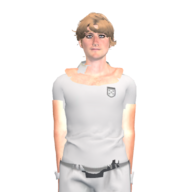
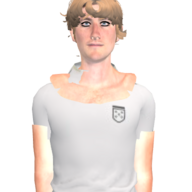
Todos los personajes con el mismo cuerpo, altura y complexión
- Ty, Big Vegas y Granny llevan su cabeza sobre el cuerpo de futbolista de Dani (piel teñida a su tono)
- Altura igualada por el cuello (el pelo o una cabeza grande ya no encogen el cuerpo) y torso al mismo ancho
- Retratos regenerados y centrados en la cara

Claude-Session: https://claude.ai/code/session_017Zx2H8d6dd2Bde9S1DSPYC

diff --git a/arenamix/chars.js b/arenamix/chars.js
@@ -13,7 +13,7 @@
     { id: 'nico', name: 'Nico', file: 'assets/chars/nico.glb' },
     { id: 'dani', name: 'Dani', file: 'assets/chars/dani.glb' }
   ];
-  var KEY = 'arenamix.char.v1', HEIGHT = 1.86;
+  var KEY = 'arenamix.char.v1', HEIGHT = 1.86, NECK_H = 1.55;
   var tpl = {}, loading = null, waiters = [], ANIM = null;
 
   function pref() {
@@ -57,7 +57,8 @@
           root.updateMatrixWorld(true);
           var box = new T.Box3().setFromObject(root);
           prepKit(root, box);
-          tpl[c.id] = { root: root, box: box, head: measureHead(root) };
+          var nb = null; root.traverse(function (b) { if (b.isBone && b.name === 'mixamorigNeck') nb = b; });
+          tpl[c.id] = { root: root, box: box, head: measureHead(root), neck: nb ? new T.Vector3().setFromMatrixPosition(nb.matrixWorld).y - box.min.y : (box.max.y - box.min.y) * 0.83 };
           if (onStep) onStep();
           res(true);
         }, null, function () { if (onStep) onStep(); res(false); });
@@ -152,6 +153,111 @@
       prepKit(root, t.box);
     });
     ['dani', 'leo', 'nico'].forEach(addArms);
+    Object.keys(HEADS).forEach(headOnBody);
+    // the same build for everyone: torsos as wide as Dani's (measured, so close models barely change)
+    var w0 = torsoW('dani');
+    LIST.forEach(function (c) { var t = tpl[c.id], w = torsoW(c.id); if (t && w0 && w) t.wx = Math.max(0.85, Math.min(1.15, w0 / w)); });
+  }
+  // width of the torso (hips to chest) at rest, in units of the neck height
+  function torsoW(id) {
+    var t = tpl[id]; if (!t) return 0;
+    var box = new T.Box3(), v = new T.Vector3();
+    t.root.updateMatrixWorld(true);
+    t.root.traverse(function (m) {
+      if (!m.isSkinnedMesh || m.userData.bareArms) return;
+      var names = m.skeleton.bones.map(function (b) { return b.name; }), pos = m.geometry.attributes.position, si = m.geometry.attributes.skinIndex, sw = m.geometry.attributes.skinWeight;
+      if (!si || !sw) return;
+      for (var i = 0; i < pos.count; i += 2) {
+        var best = 0, bw = -1;
+        for (var k = 0; k < 4; k++) { var w = sw.array[i * 4 + k]; if (w > bw) { bw = w; best = si.array[i * 4 + k]; } }
+        if (!/(Hips|Spine|Spine1|Spine2)$/.test(names[best] || '')) continue;
+        v.fromBufferAttribute(pos, i); m.boneTransform(i, v); v.applyMatrix4(m.matrixWorld); box.expandByPoint(v);
+      }
+    });
+    return box.isEmpty() ? 0 : (box.max.x - box.min.x) / (t.neck || 1);
+  }
+  /* ---------- cartoon characters on the footballer body ----------
+     Ty, Big Vegas and Granny keep their head (face, hair, glasses...) on Dani's body and kit, so everyone
+     has the same height and build. The head is cut from the model (what the head bone moves), scaled to a
+     slightly big footballer head and fixed on Dani's head bone; Dani's skin is tinted to theirs. */
+  var HEADS = { ty: { skin: '#EDB898', size: 1.38, lift: 0.07 }, vegas: { skin: '#E6B08C', size: 1.22, lift: 0.07 }, granny: { skin: '#B9CFC2', size: 1.25, lift: 0.07 } };
+  var DANI_SKIN = new T.Color('#C99A7E');
+  function headOnBody(id) {
+    var src = tpl[id], base = tpl[KIT_SRC], cfg = HEADS[id];
+    if (!src || !base || !cfg) return;
+    var root = T.SkeletonUtils.clone(base.root);
+    root.updateMatrixWorld(true); src.root.updateMatrixWorld(true);
+    var by = {}; root.traverse(function (b) { if (b.isBone && !by[b.name]) by[b.name] = b; });
+    var sby = {}; src.root.traverse(function (b) { if (b.isBone && !sby[b.name]) sby[b.name] = b; });
+    var hB = by.mixamorigHead, sH = sby.mixamorigHead;
+    if (!hB || !sH) return;
+    var under = {}; sH.traverse(function (b) { if (b.isBone) under[b.name] = 1; });
+    var dHead = {}; hB.traverse(function (b) { if (b.isBone) dHead[b.name] = 1; });
+    var tint = new T.Color(cfg.skin), sk = { r: tint.r / DANI_SKIN.r, g: tint.g / DANI_SKIN.g, b: tint.b / DANI_SKIN.b };
+    var drop = [];
+    root.traverse(function (m) {
+      if (!m.isSkinnedMesh) return;
+      if (/Hair|Eyelashes/.test(m.name)) { drop.push(m); return; }
+      if (m.userData.bareArms) { m.material = m.material.clone(); m.material.color = new T.Color(cfg.skin).convertSRGBToLinear(); return; }
+      if (!/Body$/.test(m.name)) return;
+      // Dani's skin without his head, tinted
+      var geo = m.geometry.clone(), names = m.skeleton.bones.map(function (b) { return b.name; }), si = geo.attributes.skinIndex, sw = geo.attributes.skinWeight, gi = geo.index, keep = [];
+      var isHead = function (x) { var best = 0, bw = -1; for (var q = 0; q < 4; q++) { var w = sw.array[x * 4 + q]; if (w > bw) { bw = w; best = si.array[x * 4 + q]; } } return !!dHead[names[best]]; };
+      for (var f = 0; f < gi.count; f += 3) { var a = gi.getX(f), b = gi.getX(f + 1), c = gi.getX(f + 2); if (!(isHead(a) && isHead(b) && isHead(c))) keep.push(a, b, c); }
+      geo.setIndex(keep); m.geometry = geo;
+      m.material = m.material.clone(); m.material.color = new T.Color(sk.r, sk.g, sk.b);
+    });
+    drop.forEach(function (m) { m.parent.remove(m); });
+    // the cartoon head, in the cartoon model's world space, then moved onto Dani's head bone
+    var pS = new T.Vector3().setFromMatrixPosition(sH.matrixWorld), pD = new T.Vector3().setFromMatrixPosition(hB.matrixWorld);
+    var sw0 = src.head.skull.max.x - src.head.skull.min.x, dw0 = base.head.skull.max.x - base.head.skull.min.x;
+    var k = cfg.size * dw0 / (sw0 || 1);
+    // the chin where Dani's chin is, the face centred on his
+    var sc0 = src.head.skull.getCenter(new T.Vector3()), dc0 = base.head.skull.getCenter(new T.Vector3());
+    var shift = new T.Vector3(dc0.x - (pD.x + (sc0.x - pS.x) * k), base.head.skull.min.y + (cfg.lift || 0) * (base.head.skull.max.y - base.head.skull.min.y) - (pD.y + (src.head.skull.min.y - pS.y) * k), dc0.z - (pD.z + (sc0.z - pS.z) * k));
+    var nmW = new T.Matrix3();
+    var holder = new T.Group(); holder.matrixAutoUpdate = false;
+    holder.matrix.copy(hB.matrixWorld).invert(); holder.name = 'CartoonHead';
+    hB.add(holder);
+    var skull = new T.Box3(), all = new T.Box3(), v = new T.Vector3();
+    src.root.traverse(function (m) {
+      if (!m.isSkinnedMesh || /Hands/.test(m.name)) return;
+      var geo = m.geometry, pos = geo.attributes.position, si = geo.attributes.skinIndex, sw = geo.attributes.skinWeight;
+      if (!si || !sw) return;
+      var names = m.skeleton.bones.map(function (b) { return b.name; }), n = pos.count, P = new Float32Array(n * 3), inHead = new Uint8Array(n);
+      var nrm = geo.attributes.normal, N = nrm ? new Float32Array(n * 3) : null, nv = new T.Vector3();
+      nmW.getNormalMatrix(m.matrixWorld);
+      for (var i = 0; i < n; i++) {
+        var best = 0, bw = -1;
+        for (var q = 0; q < 4; q++) { var w = sw.array[i * 4 + q]; if (w > bw) { bw = w; best = si.array[i * 4 + q]; } }
+        inHead[i] = under[names[best]] ? 1 : 0;
+        v.fromBufferAttribute(pos, i); m.boneTransform(i, v); v.applyMatrix4(m.matrixWorld);
+        v.sub(pS).multiplyScalar(k).add(pD).add(shift);
+        if (N) { nv.fromBufferAttribute(nrm, i).applyMatrix3(nmW).normalize(); N[i * 3] = nv.x; N[i * 3 + 1] = nv.y; N[i * 3 + 2] = nv.z; }
+        P[i * 3] = v.x; P[i * 3 + 1] = v.y; P[i * 3 + 2] = v.z;
+      }
+      var idx = geo.index, keep = [];
+      if (idx) { for (var f = 0; f < idx.count; f += 3) { var a = idx.getX(f), b = idx.getX(f + 1), c = idx.getX(f + 2); if (inHead[a] && inHead[b] && inHead[c]) keep.push(a, b, c); } }
+      else for (var f2 = 0; f2 < n; f2 += 3) if (inHead[f2] && inHead[f2 + 1] && inHead[f2 + 2]) keep.push(f2, f2 + 1, f2 + 2);
+      if (!keep.length) return;
+      var g2 = new T.BufferGeometry();
+      g2.setAttribute('position', new T.Float32BufferAttribute(P, 3));
+      if (geo.attributes.uv) g2.setAttribute('uv', geo.attributes.uv);
+      g2.setIndex(keep);
+      if (N) g2.setAttribute('normal', new T.Float32BufferAttribute(N, 3)); else g2.computeVertexNormals();
+      var hair = /hair/i.test(m.name);
+      keep.forEach(function (x) { v.set(P[x * 3], P[x * 3 + 1], P[x * 3 + 2]); all.expandByPoint(v); if (!hair) skull.expandByPoint(v); });
+      var mats = [].concat(m.material).map(function (mt) { var c2 = mt.clone(); c2.skinning = false; c2.morphTargets = false; return c2; });
+      var mesh = new T.Mesh(g2, Array.isArray(m.material) ? mats : mats[0]);
+      // keep the material groups of multi-material meshes
+      if (Array.isArray(m.material) && geo.groups) geo.groups.forEach(function (gr) { g2.addGroup(gr.start, gr.count, gr.materialIndex); });
+      mesh.name = 'Head_' + m.name; mesh.castShadow = true; mesh.frustumCulled = false;
+      holder.add(mesh);
+    });
+    root.updateMatrixWorld(true);
+    var box = new T.Box3().setFromObject(root);
+    tpl[id] = { root: root, box: box, neck: base.neck, head: { skull: skull.isEmpty() ? base.head.skull : skull, all: all.isEmpty() ? base.head.all : all, eyes: null, front: null } };
+    HEADFIX[id] = {};
   }
   /* ---------- sleeves and size (Taquilla) ---------- */
   var FIT_KEY = 'arenamix.fit.v1', FIT_DEF = { sleeve: 'short', size: 'M' };
@@ -494,14 +600,15 @@
     }
     var t = tpl[id], model = T.SkeletonUtils.clone(t.root);
     var g = new T.Group(), holder = new T.Group();
-    var size = t.box.getSize(new T.Vector3()), s = HEIGHT / size.y;
+    // everyone the same height: the neck at the same height (hair and big heads don't shrink the body)
+    var s = NECK_H / t.neck;
     holder.scale.setScalar(s);
     holder.position.set(-(t.box.min.x + t.box.max.x) / 2 * s, -t.box.min.y * s, -(t.box.min.z + t.box.max.z) / 2 * s);
     holder.add(model); g.add(holder);
     // dress the character: an explicit kit, your Taquilla outfit, or the team colours the game passes
     var kit = o.kit || (o.you && !o.noOutfit ? outfit(o.sport) : null);
     if (!kit && o.shirt != null) kit = { primary: o.shirt, secondary: o.trimCss, pattern: 'solid', shorts: o.shorts, socks: o.socks, shoe: o.boot };
-    if (!kit && PAINT[id]) kit = HOME_KIT;
+
     // sleeves and size: yours from Taquilla, everyone else in short sleeves and their own size
     var fit = o.fit || ((o.you || o.gear) ? fitPref() : FIT_DEF), fz = SIZES[fit.size] != null ? SIZES[fit.size] : 0;
     var fk = { sleeve: fit.sleeve, inflate: fz }, short = fit.sleeve !== 'long';
@@ -673,6 +780,8 @@
     model.traverse(function (m) {
       if (m.isMesh) m.onBeforeRender = function (r) { var f = r.info.render.frame; if (f !== lastFrame) { lastFrame = f; apply(); model.updateMatrixWorld(true); } };
     });
+    // and the same build: the torso as wide as everyone else's (a finishing touch on top of the pose)
+    if (t.wx && Math.abs(t.wx - 1) > 0.01) { holder.scale.x *= t.wx; holder.scale.z *= t.wx; holder.position.x *= t.wx; holder.position.z *= t.wx; }
     g.userData = { body: body, legs: legs, arms: arms, head: head, mixamo: id, apply: apply, anim: anim };
     apply();
     return g;

diff --git a/arenamix/sw.js b/arenamix/sw.js
@@ -1,5 +1,5 @@
 /* Network-first so every update you publish reaches the phone; cache is the offline fallback. */
-const CACHE = 'arenamix-v178';
+const CACHE = 'arenamix-v179';
 const CORE = ['./', 'index.html', 'app.js', 'manifest.webmanifest', 'vendor/preact.min.js', 'vendor/three.min.js', 'vendor/GLTFLoader.js', 'vendor/SkeletonUtils.js', 'chars.js', 'gear.js', 'posters.js', 'hero.js', 'progress.js', 'results.js', 'sfx.js', 'online.js', 'social.js', 'vendor/peerjs.min.js', 'grass.js', 'sky.js', 'ball.js', 'vendor/RGBELoader.js', 'stadium.js', 'music.js', 'ui-fx.js', 'juice.js', 'i18n.js', 'i18n-en.js', 'assets/stadium/stadium.glb', 'assets/stadium/seats.json', 'assets/stadium/goal.glb', 'assets/sky/stadium_bg.jpg', 'assets/sky/stadium_env.hdr', 'assets/grass/color.jpg', 'assets/grass/normal.jpg', 'assets/grass/rough.jpg', 'assets/chars/ty.glb', 'assets/chars/vegas.glb', 'assets/chars/granny.glb', 'assets/chars/anims.json', 'icons/icon-192.png', 'icons/loading-bg.jpg', 'assets/lobby_bg.jpg', 'assets/grain.png', 'vendor/fonts/luckiestguy-latin.woff2', 'vendor/fonts/lilitaone-latin.woff2', 'vendor/fonts/rajdhani-500.woff2', 'vendor/fonts/rajdhani-600.woff2', 'vendor/fonts/rajdhani-700.woff2'];
 
 self.addEventListener('install', (e) => {

diff --git a/arenamix/index.html b/arenamix/index.html
@@ -64,7 +64,7 @@
 <script src="vendor/GLTFLoader.js"></script>
 <script src="vendor/SkeletonUtils.js"></script>
 <script src="vendor/RGBELoader.js"></script>
-<script src="chars.js?v=52"></script>
+<script src="chars.js?v=53"></script>
 <script src="gear.js?v=10"></script>
 <script src="posters.js?v=4"></script>
 <script src="hero.js?v=3"></script>
